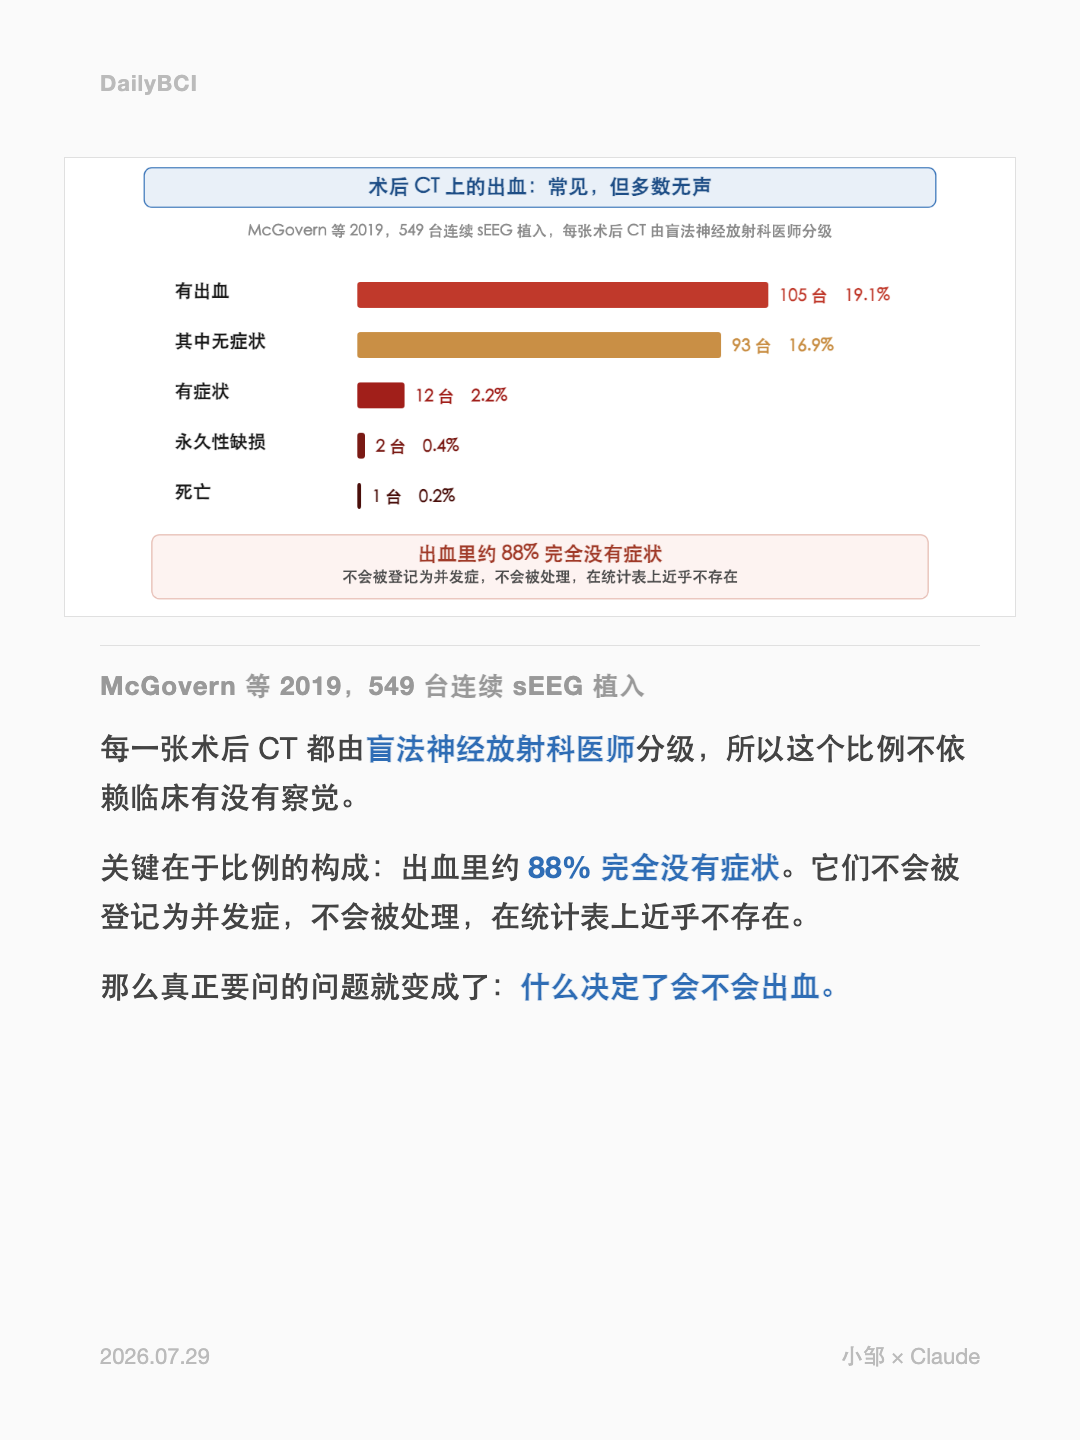
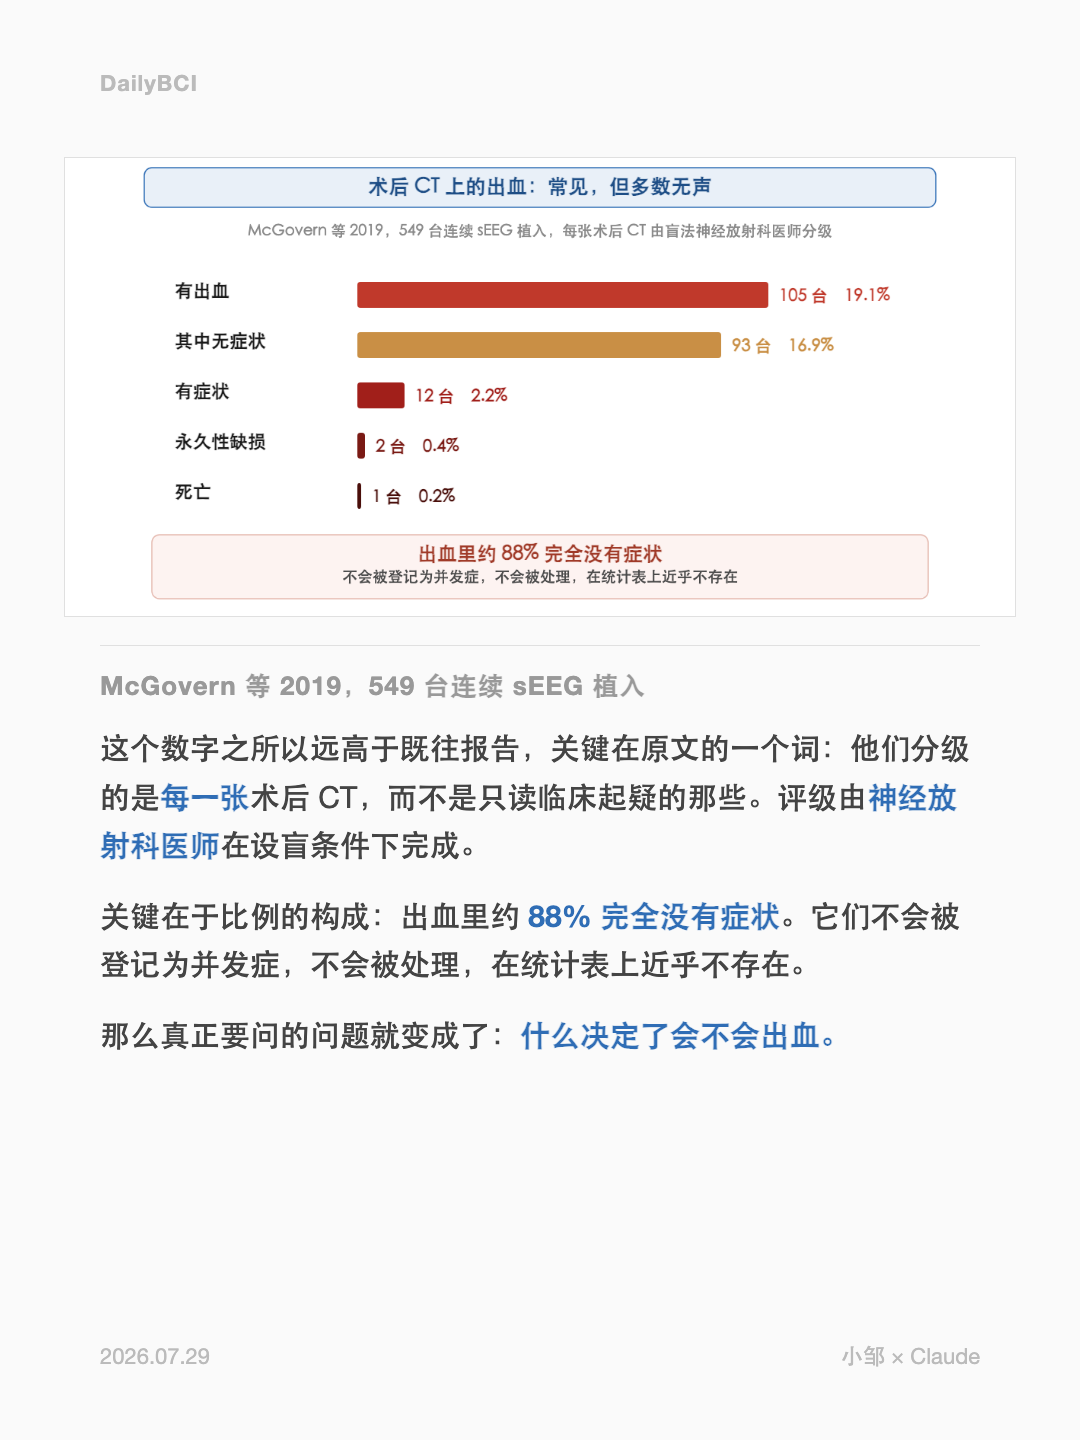
卡7 措辞修正: 承重点从「盲法」改为「每一张CT」(原文未说明对什么设盲)

Changed region(s): [[0.0917, 0.5, 0.9167, 0.75]]

diff --git a/.claude/skills/dailybci/scripts/series/build_dura3_cards.py b/.claude/skills/dailybci/scripts/series/build_dura3_cards.py
@@ -87,7 +87,8 @@ gen.text_card(
 gen.figure_card(
     F("fig-rate.png"), "McGovern 等 2019，549 台连续 sEEG 植入",
     [
-        "每一张术后 CT 都由**盲法神经放射科医师**分级，所以这个比例不依赖临床有没有察觉。",
+        "这个数字之所以远高于既往报告，关键在原文的一个词：他们分级的是**每一张**术后 CT，"
+        "而不是只读临床起疑的那些。评级由**神经放射科医师**在设盲条件下完成。",
         "关键在于比例的构成：出血里约 **88% 完全没有症状**。它们不会被登记为并发症，"
         "不会被处理，在统计表上近乎不存在。",
         "那么真正要问的问题就变成了：**什么决定了会不会出血。**",
